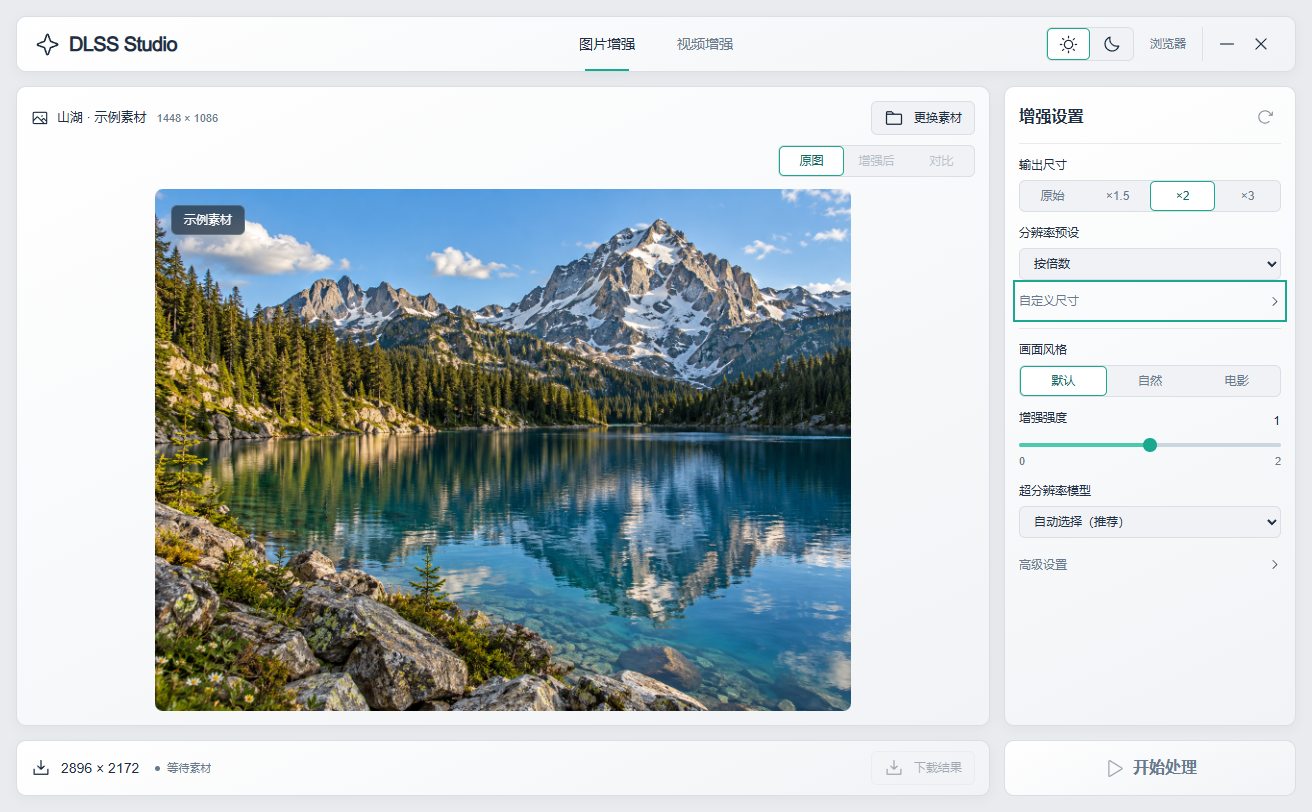
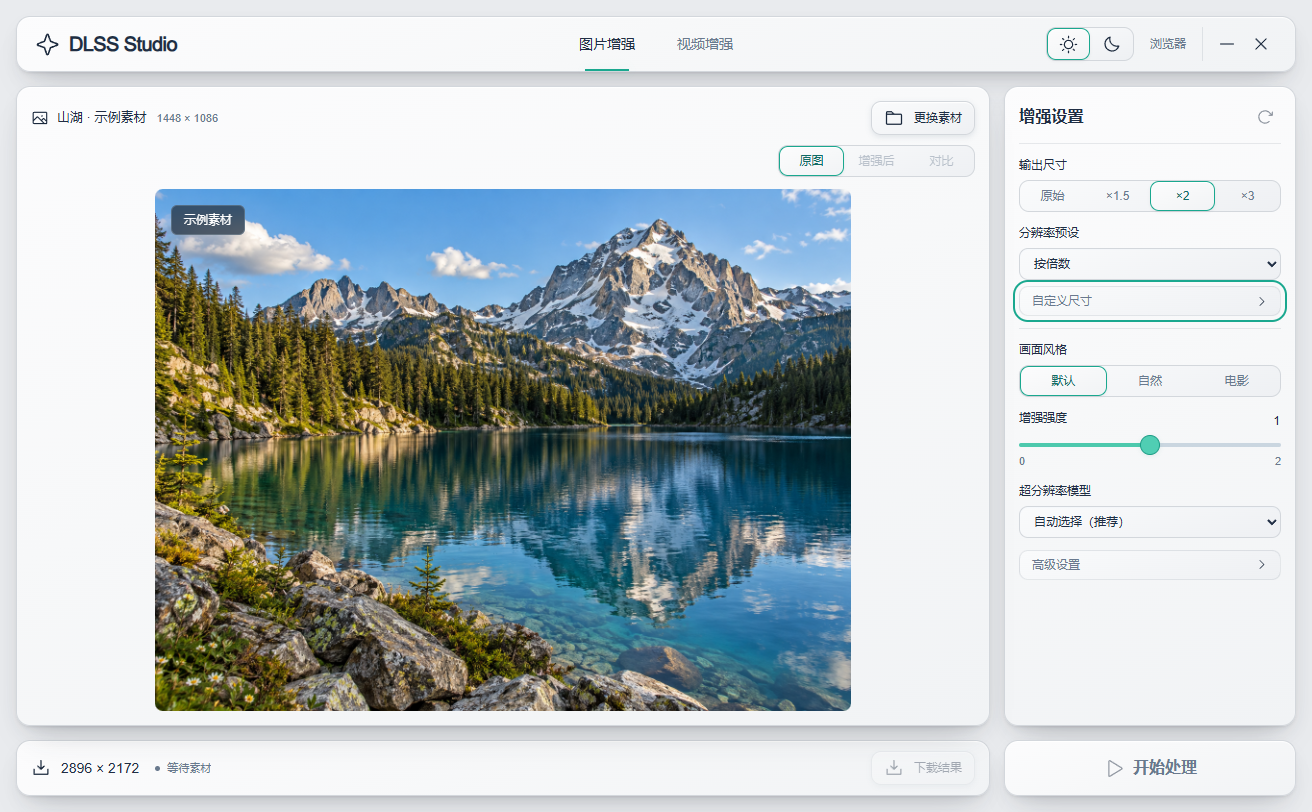
Restore approved surface styling while retaining compact layout

diff --git a/app/web/workspace.css b/app/web/workspace.css
@@ -4,7 +4,6 @@ html,body{height:100%;overflow:hidden;min-width:320px}
 .topbar{height:56px;min-height:0;padding:0 18px;gap:16px;grid-template-columns:1fr auto 1fr}
 .brand,.desktop-shell .brand{font-size:20px;gap:9px}.brand-icon{width:25px;height:25px}
 .mode-tabs{height:100%;gap:24px;grid-row:auto;grid-column:auto}.mode-tabs button{font-size:14px;padding:0 8px}
-.mode-tabs button.active:after{box-shadow:none}
 .theme-switch,.desktop-shell .theme-switch{width:88px;height:34px}.theme-switch .icon{width:19px;height:19px}
 .workspace{display:grid;grid-template-columns:minmax(0,1fr) 292px;grid-template-rows:minmax(0,1fr) 56px;gap:14px}
 .canvas-panel{height:auto;min-height:0;padding:14px;flex-shrink:1}
@@ -21,7 +20,7 @@ html,body{height:100%;overflow:hidden;min-width:320px}
 .size-switch button,.style-switch button{padding:4px 8px;font-size:12px}
 .inspector select,.inspector input[type=number]{height:32px;font-size:12px;padding:0 10px}
 .inspector details,.inspector .advanced{margin:0}
-.inspector summary{min-height:30px;padding:5px 0;font-size:12px}
+.inspector summary{min-height:30px;padding:5px 12px;font-size:12px}
 #custom-details{margin-top:6px}
 .range-heading{margin:10px 0 6px}.inspector .range-heading input{height:24px;width:48px;padding:0;text-align:right}
 .inspector input[type=range]{height:4px;margin:10px 0 6px}.range-bounds{margin:0 0 12px;font-size:11px}
@@ -30,24 +29,12 @@ html,body{height:100%;overflow:hidden;min-width:320px}
 .output-bar{padding:0 14px;min-height:0;order:initial;gap:10px}.output-info{gap:10px;flex-wrap:nowrap}.output-info>span{display:none}.output-info>.icon{width:20px;height:20px;display:block}.output-info strong{font-size:14px}
 #status-button{max-width:170px;font-size:11px}.download{height:34px;padding:0 12px;font-size:12px}
 .start-button{min-height:0;position:static;order:initial;font-size:16px;gap:9px;z-index:auto}.start-button>.icon{width:21px;height:21px}
-:root[data-theme=dark]{--flat-control:#0b1015;--flat-active:#142b25;--flat-card:linear-gradient(155deg,#0b1015,#030507 65%);--flat-line:#273139}
-:root[data-theme=light]{--flat-control:#f0f2f5;--flat-active:#fff;--flat-card:linear-gradient(155deg,#fff,#f1f3f6);--flat-line:#d9dfe5}
-[data-theme] .glass{background:var(--flat-card);border:1px solid var(--flat-line);border-radius:10px;backdrop-filter:none;box-shadow:0 3px 12px #0000000a}
-[data-theme] .glass-button,[data-theme] .segmented,[data-theme] select,[data-theme] input[type=number]{background:var(--flat-control);border:1px solid var(--flat-line);box-shadow:none;border-radius:6px;font-size:12px}
-[data-theme] .segmented button{border-radius:5px;padding:4px 10px;box-shadow:none;text-shadow:none}
-[data-theme] .segmented button.active{background:var(--flat-active);border-color:var(--mint);box-shadow:none;text-shadow:none}
-[data-theme] summary{background:transparent;border:0;border-radius:0;box-shadow:none;color:var(--muted)}
-[data-theme] summary:hover{color:var(--text)}
-[data-theme] .range-heading input{background:transparent;border-color:transparent}
-[data-theme] .start-button{background:var(--flat-active);border-color:var(--mint);box-shadow:none;color:var(--active-text)}
-[data-theme] .start-button:disabled{background:var(--flat-card);border-color:var(--flat-line);opacity:1;color:var(--muted);box-shadow:none}
-[data-theme] .start-button:disabled .icon{opacity:.4}
-[data-theme] .start-button:hover:not(:disabled),[data-theme] .glass-button:hover{box-shadow:none;filter:brightness(1.08);border-color:var(--mint)}
-[data-theme] input[type=range]::-webkit-slider-thumb{width:14px;height:14px;background:var(--mint);box-shadow:none;border:0}
-[data-theme] input[type=range]::-moz-range-thumb{width:14px;height:14px;background:var(--mint);box-shadow:none;border:0}
-.desktop-shell .desktop-actions{gap:10px}.desktop-shell .desktop-window-controls{padding-left:8px;gap:2px}.open-browser{font-size:12px;color:var(--muted);padding:6px;border-radius:5px}.open-browser:hover{background:var(--flat-control);color:var(--text)}
-.notice{bottom:14px;left:14px;right:14px;padding:10px;box-shadow:0 3px 12px #0002}
-#settings-dialog{width:min(600px,calc(100% - 24px));max-height:calc(100dvh - 24px);overflow:hidden;padding:20px;border-radius:10px;background:var(--surface)}
+/* Colors, surfaces, borders and shadows come from the approved theme files. */
+.glass-button,.segmented,select,input[type=number]{font-size:12px}
+.segmented button{padding:4px 10px}
+.desktop-shell .desktop-actions{gap:10px}.desktop-shell .desktop-window-controls{padding-left:8px;gap:2px}.open-browser{font-size:12px;color:var(--muted);padding:6px;border-radius:5px}.open-browser:hover{background:var(--control);color:var(--text)}
+.notice{bottom:14px;left:14px;right:14px;padding:10px}
+#settings-dialog{width:min(600px,calc(100% - 24px));max-height:calc(100dvh - 24px);overflow:hidden;padding:20px}
 #settings-dialog .dialog-heading{margin-bottom:16px}#settings-dialog h2{font-size:16px}
 .settings-page{display:grid;grid-template-columns:1fr 1fr;gap:14px 20px;align-content:start}
 .settings-page>*{min-width:0;margin:0}.settings-page label{font-size:12px;margin:0}.settings-page label select,.settings-page label input[type=number]{margin-top:6px;height:34px}
@@ -57,12 +44,11 @@ html,body{height:100%;overflow:hidden;min-width:320px}
 .settings-footer{display:flex;justify-content:space-between;align-items:center;padding-top:16px;margin-top:16px;border-top:1px solid var(--line);gap:10px}
 .settings-footer .pager{display:flex;align-items:center;gap:8px;font-size:12px;color:var(--muted)}.settings-footer button{height:32px;padding:0 12px}
 .settings-footer button:disabled{opacity:.35}.settings-footer .done{margin-left:auto;color:var(--active-text);border-color:var(--mint)}
-dialog::backdrop{backdrop-filter:none!important;background:#0009}
 .mobile-settings,.inspector-close{display:none}
 @media(min-width:761px) and (max-height:620px){
  .workspace{grid-template-columns:minmax(0,1fr) 190px}.canvas-panel{grid-column:1/-1}.inspector{display:none}
  .mobile-settings{display:block;grid-column:2;grid-row:2;height:32px}.view-switch{grid-column:1;justify-self:start}
- .inspector.mobile-open{display:flex;position:fixed;inset:10px;z-index:25;background:var(--surface);box-shadow:0 0 0 20px var(--bg)}
+ .inspector.mobile-open{display:flex;position:fixed;inset:10px;z-index:25;box-shadow:var(--glass-shadow),0 0 0 20px var(--bg)}
  .inspector-close{display:grid}.inspector-title{gap:8px}.inspector-title h1{flex:1}
  .inspector #settings-form{display:grid;grid-template-columns:1fr 1fr;gap:12px 24px}.setting-section+.setting-section{border:0;padding:0}
 }
@@ -72,7 +58,7 @@ dialog::backdrop{backdrop-filter:none!important;background:#0009}
 @media(max-width:760px){
  .studio{padding:10px;gap:10px}.topbar{height:94px;grid-template-columns:1fr auto;grid-template-rows:40px 34px;gap:0 10px;padding:8px 12px}.mode-tabs{grid-column:1/-1;grid-row:2;gap:24px;justify-content:center}.theme-switch{grid-column:2;grid-row:1}.brand{font-size:18px}
  .workspace{grid-template-columns:minmax(0,1fr) 126px;grid-template-rows:minmax(0,1fr) 52px;gap:10px}.canvas-panel{grid-column:1/-1;min-height:0;height:auto}.canvas-toolbar{grid-template-columns:minmax(0,1fr) auto}.view-switch{grid-column:1;justify-self:start;width:auto}.mobile-settings{display:block;grid-column:2;grid-row:2;height:32px}.file-info strong{max-width:180px}.file-info>.icon{display:none}
- .inspector{display:none}.inspector.mobile-open{display:flex;position:fixed;inset:10px;z-index:25;background:var(--surface);padding:18px;box-shadow:0 0 0 20px var(--bg)}.inspector-close{display:grid}.inspector-title{gap:8px}.inspector-title h1{flex:1}
+ .inspector{display:none}.inspector.mobile-open{display:flex;position:fixed;inset:10px;z-index:25;padding:18px;box-shadow:var(--glass-shadow),0 0 0 20px var(--bg)}.inspector-close{display:grid}.inspector-title{gap:8px}.inspector-title h1{flex:1}
  .output-info>.icon{display:none}.output-info{display:grid;gap:0}.output-bar{padding:0 9px;gap:4px}.output-info strong{font-size:11px}.download{font-size:11px;padding:0 7px;gap:4px}.download .icon{display:none}#status-button{padding:0;font-size:10px;max-width:90px}.start-button{font-size:14px;gap:6px}
  .empty-state{padding:12px}.empty-state>.icon{margin-bottom:8px}.empty-state h2{font-size:17px}.empty-state p{font-size:12px;margin-bottom:14px}
  .settings-page{gap:12px}.settings-page .helper{font-size:11px}#settings-dialog{padding:16px}.desktop-shell .desktop-actions{grid-column:2;grid-row:1}

diff --git a/README.md b/README.md
@@ -8,7 +8,7 @@
 
 - 图片与视频增强，支持输出尺寸、画面风格及高级参数设置。
 - 图片原图、结果与拖动对比；视频预览与文件下载。
-- 深浅主题、透明预览背景和扁平控件；主界面适配窗口，高级参数使用独立面板，小窗口自动分页。
+- 深色光泽折射边缘、浅色中性微渐变与阴影、透明预览背景；主界面适配窗口，高级参数使用独立面板，小窗口自动分页。
 - `DLSS Studio.exe`：内嵌 WebView2，直接显示完整工作台，无系统边框；支持拖动、调整大小、右上角最小化和关闭。
 - 独立窗口右上角“浏览器”可打开同一 Web 服务，无需第二个启动器。关闭独立窗口会停止服务；外部浏览器与独立窗口的当前素材和预览独立保存。
 - 默认端口被占用时自动选择可用端口，仅监听 `127.0.0.1`。
